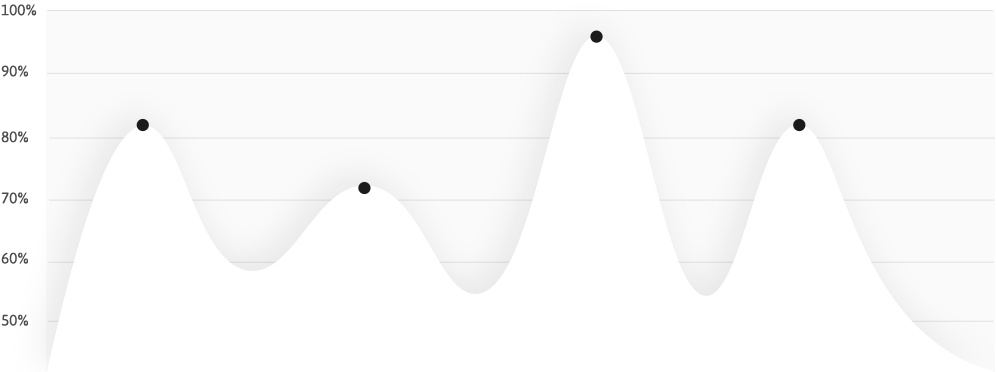
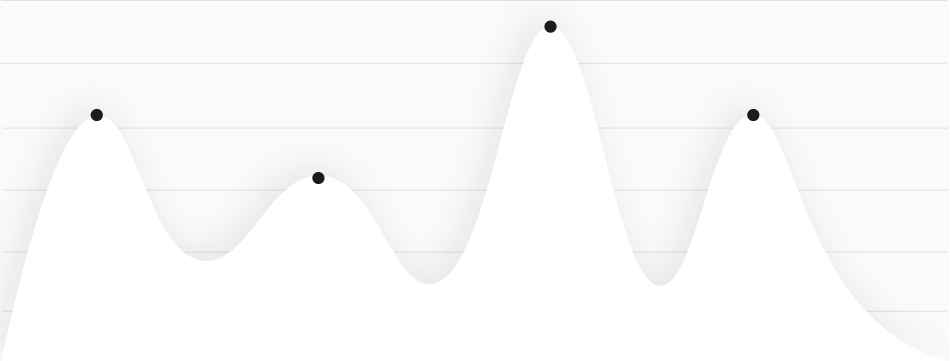
Added new section "Portfolio"

diff --git a/index.html b/index.html
@@ -95,7 +95,100 @@
     <h3 class="text-center">MY SKILLS</h3>
     <div class="container">
         <div class="row">
-            <img class="justify-content-center" src="images/skills_03.jpg" alt="">
+            <div class="numbers col-sm-1">
+                <p>100%</p>
+                <p>90%</p>
+                <p>80%</p>
+                <p>70%</p>
+                <p>60%</p>
+                <p>50%</p>
+            </div>
+            <img class="justify-content-center graph" src="images/skills_03.jpg" alt="">
+        </div>
+    </div>
+    <div class="d-flex justify-content-between">
+        <img src="images/xd_03.jpg" alt="">
+        <img src="images/AE_05.jpg" alt="">
+        <img src="images/Ps_07.jpg" alt="">
+        <img src="images/Ai_10.jpg" alt="">
+    </div>
+</section>
+
+<section class="portfolio">
+    <h3 class="text-center">PORTFOLIO</h3>
+    <div class="container">
+        <div class="row">
+            <div class="col-12 col-sm-6 col-md-4 isotope-item">
+                <a class="card card-portfolio card-overlay card-image-lg card-hover-appearance text-white text-center" href="">
+                    <span class="card-img">
+                        <img src="images/portfolio1_03.jpg" alt="">
+                    </span>
+                    <span class="card-img-overlay">
+                        <span class="card-title h4"></span>
+                        <span class="card-category subtitle"></span>
+                    </span>
+                </a>
+            </div>
+
+            <div class="col-12 col-sm-6 col-md-4 isotope-item middle">
+                <a class="card card-portfolio card-overlay card-image-lg card-hover-appearance text-white text-center" href="">
+                    <span class="card-img">
+                        <img src="images/portfolio2_05.jpg" alt="">
+                    </span>
+                    <span class="card-img-overlay">
+                        <span class="card-title h4"></span>
+                        <span class="card-category subtitle"></span>
+                    </span>
+                </a>
+            </div>
+
+            <div class="col-12 col-sm-6 col-md-4 isotope-item">
+                <a class="card card-portfolio card-overlay card-image-lg card-hover-appearance text-white text-center" href="">
+                    <span class="card-img">
+                        <img src="images/portfolio3_05.jpg" alt="">
+                    </span>
+                    <span class="card-img-overlay">
+                        <span class="card-title h4"></span>
+                        <span class="card-category subtitle"></span>
+                    </span>
+                </a>
+            </div>
+
+            <div class="col-12 col-sm-6 col-md-4 isotope-item">
+                <a class="card card-portfolio card-overlay card-image-lg card-hover-appearance text-white text-center" href="">
+                    <span class="card-img">
+                        <img src="images/portfolio4_06.jpg" alt="">
+                    </span>
+                    <span class="card-img-overlay">
+                        <span class="card-title h4">Hello</span>
+                        <span class="card-category subtitle"></span>
+                    </span>
+                </a>
+            </div>
+
+            <div class="col-12 col-sm-6 col-md-4 isotope-item middle">
+                <a class="card card-portfolio card-overlay card-image-lg card-hover-appearance text-white text-center" href="">
+                    <span class="card-img">
+                        <img src="images/portfolio5_07.jpg" alt="">
+                    </span>
+                    <span class="card-img-overlay">
+                        <span class="card-title h4"></span>
+                        <span class="card-category subtitle"></span>
+                    </span>
+                </a>
+            </div>
+
+            <div class="col-12 col-sm-6 col-md-4 isotope-item">
+                <a class="card card-portfolio card-overlay card-image-lg card-hover-appearance text-white text-center" href="">
+                    <span class="card-img">
+                        <img src="images/portfolio6_07.jpg" alt="">
+                    </span>
+                    <span class="card-img-overlay">
+                        <span class="card-title h4"></span>
+                        <span class="card-category subtitle"></span>
+                    </span>
+                </a>
+            </div>
         </div>
     </div>
 </section>

diff --git a/css/style.css b/css/style.css
@@ -121,20 +121,55 @@
       display: block;
       margin: 0 auto 0; }
 
-.skills h3 {
-  font-family: "Asap", sans-serif;
-  font-size: 46px;
-  color: #717171;
-  font-weight: 700;
-  letter-spacing: 10px;
-  margin: 69px 0 14px;
-  line-height: 50px; }
-  .skills h3:before {
-    content: "";
-    display: block;
-    background-color: #717171;
-    width: 60px;
-    height: 4px;
-    margin: 0 auto 19px; }
+.skills {
+  padding: 117px 0 127px; }
+  .skills .numbers {
+    margin-top: -12px;
+    padding-left: 30px; }
+    .skills .numbers p {
+      margin-bottom: 48px; }
+  .skills h3 {
+    font-family: "Asap", sans-serif;
+    font-size: 46px;
+    color: #717171;
+    font-weight: 700;
+    letter-spacing: 10px;
+    margin-bottom: 62px;
+    line-height: 50px; }
+    .skills h3:before {
+      content: "";
+      display: block;
+      background-color: #717171;
+      width: 60px;
+      height: 4px;
+      margin: 0 auto 19px; }
+  .skills .graph {
+    -webkit-box-shadow: 3px 3px 20px 0 #c8c8c8;
+    box-shadow: 3px 3px 20px 0 #c8c8c8;
+    margin-bottom: 15px; }
+  .skills .d-flex {
+    max-width: 680px;
+    margin: auto; }
+
+.portfolio {
+  padding: 126px 123px;
+  background-color: #f6f6f6; }
+  .portfolio h3 {
+    font-family: "Asap", sans-serif;
+    font-size: 46px;
+    color: #717171;
+    font-weight: 700;
+    letter-spacing: 10px;
+    margin-bottom: 62px;
+    line-height: 50px; }
+    .portfolio h3:before {
+      content: "";
+      display: block;
+      background-color: #717171;
+      width: 60px;
+      height: 4px;
+      margin: 0 auto 19px; }
+  .portfolio .isotope-item {
+    margin-bottom: 30px; }
 
 /*# sourceMappingURL=style.css.map */

diff --git a/css/style.scss b/css/style.scss
@@ -172,9 +172,19 @@ $font-family-main: 'Asap', sans-serif;
 }
 
 .skills{
+  padding: 117px 0 127px;
+  .numbers{
+    margin-top: -12px;
+    padding-left: 30px;
+    p{
+      margin-bottom: 48px;
+    }
+  }
+
+
   h3 {
     @include h3;
-    margin: 69px 0 14px;
+    margin-bottom: 62px;
     line-height: 50px;
 
     &:before {
@@ -186,5 +196,36 @@ $font-family-main: 'Asap', sans-serif;
       height: 4px;
       margin: 0 auto 19px;
     }
+  }
+  .graph{
+    -webkit-box-shadow: 3px 3px 20px 0 #c8c8c8;
+    box-shadow: 3px 3px 20px 0 #c8c8c8;
+    margin-bottom: 15px;
+  }
+  .d-flex{
+    max-width: 680px;
+    margin: auto;
+  }
+}
+.portfolio{
+  padding: 126px 123px;
+  background-color: #f6f6f6;
+  h3 {
+    @include h3;
+    margin-bottom: 62px;
+    line-height: 50px;
+
+    &:before {
+      content: "";
+      display: block;
+
+      background-color: #717171;
+      width: 60px;
+      height: 4px;
+      margin: 0 auto 19px;
+    }
+  }
+  .isotope-item{
+    margin-bottom: 30px;
   }
 }
